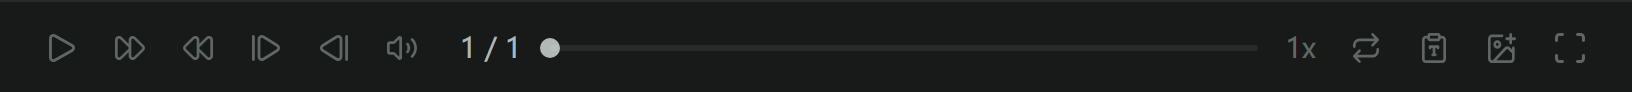
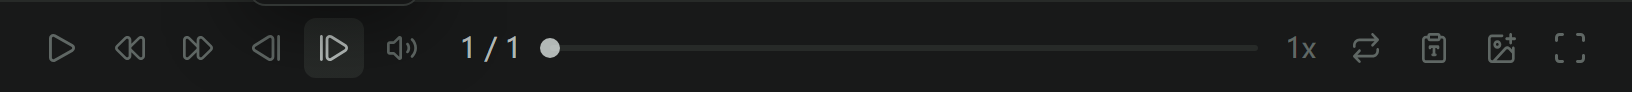
阶段五 5.1 复核三轮：视频快进快退/上下帧朝向修正 + tip tag 化 + 播放条图标 hover 提亮 + 帧条两端换 nav-history 面包屑同款

Changed region(s): [[0.0625, 0.3696, 0.2188, 0.6739], [0.1562, 0.0435, 0.25, 0.0652]]

diff --git a/src/components/PlayBarVideo.vue b/src/components/PlayBarVideo.vue
@@ -1,7 +1,8 @@
 <script setup lang="ts">
 // 视频播放条（5.2）：样式 = 13_播放条稿（2026-08-20 用户定，与搜索栏同位同尺寸）——46 高 /
 // padding 8 16 / C3 / border-top 暗-悬停 / 直角通栏；左组 = 播放/快退/快进/上帧/下帧/音量（稿全量件）。
-// 播放/暂停、快退/快进（∓5 秒）、上/下一帧（step-frame 图标左右翻转，步进即暂停，快捷键 , . 的实体入口）、
+// 播放/暂停、快退/快进（∓5 秒；seek 原样 ◀◀ = 快退、flip-h = 快进——2026-08-20 修：翻转归属原写反）、
+// 上/下一帧（step-frame-vertical 原样 ◀| = 上一帧、flip-h |▶ = 下一帧；步进即暂停，快捷键 , . 的实体入口）、
 // 音量（VolumeControl）、当前帧/总帧数（TimeDisplayControl：5.3 帧化，查看方式"时间显示 = 帧数"且
 // fps 可用，回退 当前时间/总时长；悬停出帧数/时间码就地切换弹窗，2026-07-28 用户定）、
 // 进度条（3px 轨道 暗-悬停 + 品牌紫填充 + 10px 常态色拖钮，13 稿口径）、
@@ -76,11 +77,12 @@ function stepFrame(delta: number): void {
         :disabled="media.transcodingSlow"
         @click="media.togglePlay()"
       />
-      <IconButton class="flip-h" name="seek" title="快退 5 秒" :disabled="media.transcodingSlow" @click="media.seekBy(-5)" />
-      <IconButton name="seek" title="快进 5 秒" :disabled="media.transcodingSlow" @click="media.seekBy(5)" />
-      <!-- 上下帧（逐帧步进即暂停；step-frame-vertical 图标左右翻转使用，快捷键 , . 的实体入口） -->
-      <IconButton class="flip-h" name="step-frame-vertical" title="上一帧（,）" :disabled="media.transcodingSlow" @click="stepFrame(-1)" />
-      <IconButton name="step-frame-vertical" title="下一帧（.）" :disabled="media.transcodingSlow" @click="stepFrame(1)" />
+      <IconButton name="seek" title="快退 5 秒" :disabled="media.transcodingSlow" @click="media.seekBy(-5)" />
+      <IconButton class="flip-h" name="seek" title="快进 5 秒" :disabled="media.transcodingSlow" @click="media.seekBy(5)" />
+      <!-- 上下帧（逐帧步进即暂停；step-frame-vertical 原样 ◀| = 上一帧、flip-h |▶ = 下一帧；
+           快捷键 , . 的实体入口，tip tag 化同"新增"口径） -->
+      <IconButton name="step-frame-vertical" :title="{ text: '上一帧', keys: ',' }" :disabled="media.transcodingSlow" @click="stepFrame(-1)" />
+      <IconButton class="flip-h" name="step-frame-vertical" :title="{ text: '下一帧', keys: '.' }" :disabled="media.transcodingSlow" @click="stepFrame(1)" />
       <VolumeControl />
     </div>
     <TimeDisplayControl :text="posText" />
@@ -136,6 +138,10 @@ function stepFrame(delta: number): void {
 /* 播放条图标 = 标签档（13 稿 Vector 文字/标签） */
 .play-bar :deep(.icon-btn) {
   color: var(--text-label);
+}
+/* hover 提亮到常态（2026-08-20 用户定）；激活（品牌紫）/ 禁用态不提亮 */
+.play-bar :deep(.icon-btn:hover:not(.active):not(:disabled)) {
+  color: var(--text-normal);
 }
 .play-bar :deep(.icon-btn.active) {
   color: var(--brand-1);

diff --git a/src/components/PreviewFrameStrip.vue b/src/components/PreviewFrameStrip.vue
@@ -40,7 +40,7 @@ watch(
 
 <template>
   <div v-if="show" class="frame-strip">
-    <IconButton name="chevron-small" title="上一帧" class="rot-l" :disabled="preview.frame <= 0" @click="preview.stepFrame(-1)" />
+    <IconButton name="nav-history" title="上一帧" :disabled="preview.frame <= 0" @click="preview.stepFrame(-1)" />
     <div ref="listRef" class="frames">
       <!-- 动图分支（帧索引驱动） -->
       <template v-if="preview.kind === 'anim'">
@@ -71,9 +71,9 @@ watch(
       </button>
     </div>
     <IconButton
-      name="chevron-small"
+      name="nav-history"
       title="下一帧"
-      class="rot-r"
+      class="rot-180"
       :disabled="preview.frame >= count - 1"
       @click="preview.stepFrame(1)"
     />
@@ -92,18 +92,18 @@ watch(
   background: var(--c3);
   border-top: 1px solid var(--line-hover);
 }
-/* chevron-small 源图形朝上（BlockManageRow 实机核对口径）：上一帧 = 逆时针 90°（朝左），
-   下一帧 = 顺时针 90°（朝右）。2026-08-20 修：旧注释误记"原图标朝下"（1.1 换血前朝向），
-   ±90° 写反致两端按钮方向互逆——与 PreviewTitleBar 返回钮同根因 */
-.rot-l :deep(svg) {
-  transform: rotate(-90deg);
-}
-.rot-r :deep(svg) {
-  transform: rotate(90deg);
+/* 上/下帧 = nav-history 与面包屑后退/前进同款（2026-08-20 用户定，弃用 chevron-small 旋转箭头）：
+   上一帧不旋转（朝左），下一帧 rotate(180°) 朝右 */
+.rot-180 :deep(svg) {
+  transform: rotate(180deg);
 }
 /* 播放条系图标 = 标签档（13 稿 Vector 文字/标签，与播放条统一） */
 .frame-strip :deep(.icon-btn) {
   color: var(--text-label);
+}
+/* hover 提亮到常态（同播放条口径）；禁用态不提亮 */
+.frame-strip :deep(.icon-btn:hover:not(:disabled)) {
+  color: var(--text-normal);
 }
 .frames {
   display: flex;

diff --git a/src/components/PlayBarFrames.vue b/src/components/PlayBarFrames.vue
@@ -118,6 +118,10 @@ function onSeekUp(e: PointerEvent): void {
 .play-bar :deep(.icon-btn) {
   color: var(--text-label);
 }
+/* hover 提亮到常态（2026-08-20 用户定）；激活（品牌紫）/ 禁用态不提亮 */
+.play-bar :deep(.icon-btn:hover:not(.active):not(:disabled)) {
+  color: var(--text-normal);
+}
 /* 激活态优先于标签档（笔记开着 = 品牌紫） */
 .play-bar :deep(.icon-btn.active) {
   color: var(--brand-1);

diff --git a/src/components/PlayBarAudio.vue b/src/components/PlayBarAudio.vue
@@ -114,6 +114,10 @@ function onSeekUp(e: PointerEvent): void {
 .play-bar :deep(.icon-btn) {
   color: var(--text-label);
 }
+/* hover 提亮到常态（2026-08-20 用户定）；激活（品牌紫）/ 禁用态不提亮 */
+.play-bar :deep(.icon-btn:hover:not(.active):not(:disabled)) {
+  color: var(--text-normal);
+}
 .play-bar :deep(.icon-btn.active) {
   color: var(--brand-1);
 }

diff --git a/tools/cdp-playbar-probe.py b/tools/cdp-playbar-probe.py
@@ -130,9 +130,19 @@ STRIP_STYLE_JS = """(() => {
     borderRadius: cs.borderRadius, borderTopWidth: cs.borderTopWidth, boxShadow: cs.boxShadow,
     background: cs.backgroundColor, padding: cs.padding,
     btnTransforms: btns, btnCount: btns.length,
+    btnDs: [...strip.querySelectorAll('.icon-btn svg path')].map((p) => p.getAttribute('d')?.slice(0, 20) ?? null),
     frameRadius: (() => { const f = strip.querySelector('.frame'); return f ? getComputedStyle(f).borderRadius : null; })(),
   };
 })()"""
+
+# 视频左组按钮朝向断言（2026-08-20 修：seek 原样 ◀◀ = 快退 / flip-h = 快进；step-frame-vertical
+# 原样 ◀| = 上一帧 / flip-h = 下一帧）——读 svg computed transform 序列比对
+VIDEO_LEFT_JS = """(() => {
+  const group = document.querySelector('.preview-footer .play-bar .btn-group');
+  if (!group) return null;
+  return [...group.querySelectorAll('.icon-btn svg')].map((s) => getComputedStyle(s).transform);
+})()"""
+FLIP = "matrix(-1, 0, 0, 1, 0, 0)"  # scaleX(-1)
 
 C3_RGB = "rgb(24, 25, 25)"  # #181919
 LABEL_RGBA = "rgba(234, 255, 247, 0.341)"  # 文字/标签 0.3412（浏览器舍入）
@@ -253,9 +263,13 @@ async def main():
                     fails.append(f"[动图] 帧条边框/画框不符（top {strip['borderTopWidth']} / shadow {strip['boxShadow']}）")
                 if strip["padding"] != "8px 16px":
                     fails.append(f"[动图] 帧条内边距 {strip['padding']}（期望 8px 16px）")
+                # 两端按钮 = nav-history 面包屑同款：上一帧不旋转（朝左）/ 下一帧 rotate(180°)
+                ds = strip.get("btnDs") or []
+                if not all(d and d.startswith("M11.6251 2.5") for d in ds):
+                    fails.append(f"[动图] 帧条两端图标 ≠ nav-history（{ds}）")
                 rots = [rot_deg(t) for t in strip["btnTransforms"]]
-                if len(rots) != 2 or rots[0] != -90 or rots[1] != 90:
-                    fails.append(f"[动图] 帧条两端按钮方向错（{rots}，期望 [-90, 90] 即 ← →）")
+                if len(rots) != 2 or rots[0] is not None or rots[1] != 180:
+                    fails.append(f"[动图] 帧条两端按钮方向错（{rots}，期望 [不旋转, 180] 即 ‹ ›）")
             # 帧数文本色 = 常态档
             ft = await ev("(() => { const t = document.querySelector('.play-bar .frame-text'); return t ? getComputedStyle(t).color : null; })()")
             print("[动图] 帧数文本色:", ft)
@@ -271,6 +285,27 @@ async def main():
             print("[视频] 左组按钮数:", left_n)
             if left_n != 6:
                 fails.append(f"[视频] 左组 {left_n} 件（期望 6：播放/快退/快进/上帧/下帧/音量）")
+            # 左组朝向序列：播放 none / 快退 none（◀◀）/ 快进 flip / 上帧 none（◀|）/ 下帧 flip / 音量 none
+            transforms = await ev(VIDEO_LEFT_JS)
+            print("[视频] 左组 transform:", transforms)
+            if transforms:
+                expect = ["none", "none", FLIP, "none", FLIP, "none"]
+                if transforms != expect:
+                    fails.append(f"[视频] 左组朝向序列不符（{transforms}，期望 {expect}）")
+            # hover 提亮 + tip tag 化（下一帧钮：非禁用）：真鼠标悬停 → 图标色提亮常态 + 400ms 出 tag 化 tip
+            btn_rect = await ev("(() => { const b = document.querySelectorAll('.preview-footer .play-bar .btn-group .icon-btn')[4]; const r = b.getBoundingClientRect(); return { x: r.left + r.width / 2, y: r.top + r.height / 2 }; })()")
+            color0 = await ev("getComputedStyle(document.querySelectorAll('.preview-footer .play-bar .btn-group .icon-btn')[4]).color")
+            await send(ws, "Input.dispatchMouseEvent", {"type": "mouseMoved", "x": btn_rect["x"], "y": btn_rect["y"]}, session=sess)
+            await asyncio.sleep(0.2)
+            color1 = await ev("getComputedStyle(document.querySelectorAll('.preview-footer .play-bar .btn-group .icon-btn')[4]).color")
+            print("[视频] 下一帧 hover 色:", color0, "→", color1)
+            if color1 == color0 or not (color1 or "").startswith("rgba(247, 255, 252, 0.694"):
+                fails.append(f"[视频] hover 未提亮到常态（{color0} → {color1}）")
+            await asyncio.sleep(0.6)  # v-tip 400ms 延迟
+            tip = await ev("(() => { const t = document.querySelector('.app-tip.show'); return t ? { text: t.textContent, kbd: [...t.querySelectorAll('kbd')].map((k) => k.textContent) } : null; })()")
+            print("[视频] 下一帧 tip:", json.dumps(tip, ensure_ascii=False))
+            if not tip or "下一帧" not in tip["text"] or tip["kbd"] != ["."]:
+                fails.append(f"[视频] 下一帧 tip 未 tag 化（{tip}，期望 文本「下一帧」+ kbd [.]）")
             await shot_footer("playbar-video")
             await close_preview()
 

diff --git a/docs/04_开发日志/2026-08-20.md b/docs/04_开发日志/2026-08-20.md
@@ -142,3 +142,15 @@ spike 验证通过后当日起量，动图卡播放源整体切换：`<img>` 播
 - **顺手修既有 BUG**：PlayBarVideo 上/下帧按钮引用 `step-frame`——**该图标文件从未入库**（命名对照 177 行登记缺失），视频预览一点开播放条即 getIcon 抛错、Vue 渲染连锁崩（探针实锤 EXCEPTION）；改 `step-frame-vertical`（三角+竖杆，语义即"上下帧"），命名对照 177 行更正。
 - **验证**：typecheck / build 全绿；新探针 `tools/cdp-playbar-probe.py` 全项 PASS（三变体覆盖：动图假 WS 帧流撑帧条 / 视频左组 6 件 / 音频波形；computed style 断言 46 高 / 直角 / border-top / C3 / padding / 图标标签档 / 帧数常态档 / 帧条两端 [-90°, +90°]）+ 三截图留档（playbar-frames / video / audio.png）。坑：浏览器 computed alpha 舍入 2 位（0.3412 → 0.34），断言前缀勿卡死。
 - **文档**：PRD 04 播放条布局条文改写 / 速查表新增 §11 预览播放条·帧条 / 命名对照更正。
+
+---
+
+## 阶段五 5.1 复核三轮：播放条细节四项（用户实机报）
+
+1. **快进/快退朝向反了**：`seek` 源图形 = ◀◀ 快退（双三角朝左）——原实现把 flip-h 挂在快退上（快退变 ▶▶、快进变 ◀◀）。对调：快退原样、快进 flip-h。
+2. **上/下帧朝向反了**：`step-frame-vertical` 原样 = ◀|（三角朝左）即上一帧——上轮 flip-h 挂错位置。对调：上一帧原样、下一帧 flip-h。
+3. **上/下帧快捷键 tip tag 化**：`"上一帧（,）"` 纯文本 → TipValue 对象 `{ text: '上一帧', keys: ',' }`（与"新增"Ctrl+N 同款 kbd 徽章；单字符键 kbd 原样）。
+4. **播放条图标 hover 提亮**：标签档常态 → hover 常态色提亮（`:hover:not(.active):not(:disabled)`；激活品牌紫 / 禁用不提亮），三变体 + 帧条两端统一。
+5. **帧条两端按钮换 nav-history**（用户定：用面包屑返回样式，不用箭头）——上一帧不旋转、下一帧 rotate(180°)，与预览标题栏上/下一个、面包屑后退/前进全库同图标。
+
+**验证**：typecheck / build 全绿；`cdp-playbar-probe.py` 复跑全项 PASS（新增断言：视频左组 transform 序列 [none, none, flip, none, flip, none] / 帧条两端 nav-history d 前缀 + [不旋转, 180°] / 真鼠标 hover 提亮 0.34→0.694 / tip tag 化 kbd ["."]）+ 截图留档。速查表 §11 回补（朝向归属 / hover 提亮 / tip tag 化 / 帧条 nav-history）。

diff --git a/docs/05_项目进度/00_当前状态.md b/docs/05_项目进度/00_当前状态.md
@@ -1,6 +1,6 @@
 > 任务完成即更新本文件。开发中发现的遗漏细节记入 [[09_待办细节清单]]，按迭代消化，不在代码里就地糊（见 01_开发规范 第 4 条）。
 
-# 当前状态
+- **阶段五 5.1 复核三轮 · 播放条细节四项已落地（2026-08-20，feat/new-ui，用户实机报）**：① 快进/快退朝向对调（seek 原样 ◀◀ = 快退，原实现 flip-h 挂反）；② 上/下帧朝向对调（step-frame-vertical 原样 ◀| = 上一帧、flip-h = 下一帧，上轮挂反）；③ 上下帧 tip tag 化（TipValue keys，与"新增"kbd 徽章同款，废"上一帧（,）"纯文本）；④ 播放条系图标 hover 提亮常态色（标签档常态，active 品牌紫/禁用豁免；三变体 + 帧条两端统一）；⑤ 帧条两端换 `nav-history` 面包屑同款（用户定，弃用 chevron-small 旋转箭头）——至此导航向图标全库统一 nav-history（面包屑 / 预览标题栏上·下一个 / 帧条）。typecheck / build 绿；cdp-playbar-probe 复跑全项 PASS（新增朝向序列 / hover 提亮 / tip kbd 断言）+ 截图。速查表 §11 回补。**下一步：5.1 复核继续（按用户实机走查）/ 5.2 / 视频卡帧流（用户已排入 5.2）**。
 
 - **阶段五 5.1 复核二轮 · 播放条/帧条贴 13_播放条稿已落地（2026-08-20，feat/new-ui，用户两问定案）**：播放条 = 搜索栏同位同尺寸（46 高 / padding 8 16 / C3 / border-top 暗-悬停 / 直角通栏，旧圆角浮条口径作废）；顺序 = 播放条在上、常驻帧条贴底；图标全量稿按实际删减（动图无音量·快进快退，上·下帧不补——帧条两端已有）。三变体 + 帧条容器全改贴稿（图标标签档 / 时间码常态 min-72 / 进度条轨道暗-悬停 + 拖钮常态 / RateControl·TimeDisplayControl 30 高）；footer 通栏贴底（主窗口 padding 归零 / 预览窗口负 margin 拉通，全屏态归零防溢出）。**顺手修两既有 BUG**：帧条两端按钮方向互逆（chevron-small 源图形朝上，旧注释误记朝下，rot ±90° 写反）；PlayBarVideo 引用 `step-frame` 图标**从未入库**（视频预览播放条渲染即崩）→ 改 `step-frame-vertical`，命名对照 177 行更正。typecheck / build 全绿；新探针 `tools/cdp-playbar-probe.py` 三变体全项 PASS + 三截图。PRD 04 条文改写 / 速查表新增 §11。**下一步：5.1 复核继续（按用户实机走查）/ 5.2 / 视频卡帧流（用户已排入 5.2）**。
 

diff --git a/docs/02_样式与布局/03_新面板口径速查.md b/docs/02_样式与布局/03_新面板口径速查.md
@@ -91,5 +91,7 @@
 - **图标 = 标签档色**（13 稿 Vector 文字/标签），激活态（笔记/循环开着）品牌紫；**时间码位 = 常态色 min-width 72**（帧数/时长文本、TimeDisplayControl）；**速率钮 30 高 padding 0 6 标签档**。
 - **进度条**：3px 轨道 **暗-悬停**（非 border-1）+ 品牌紫填充（已播放表达，稿未画但保留）+ 10px **常态色**拖钮；音频为波形进度条（两层 mask + 播放头竖线），容器口径不变。
 - **图标删减口径**：13 稿是全量稿，按格式删减——动图/序列帧无音量/快进快退（无音轨、PRD 无此项），上·下帧按钮**不补**（帧条两端已有，2026-08-20 用户定）；音频无笔记/设封面/全屏。
-- **常驻帧条同款容器样式**（直角 / C3 / border-top 暗-悬停 / padding 8 16），顺序 = 播放条在上、帧条贴底；帧块内容物保持圆角 8 + 当前帧 1.5px 品牌色 ::after。
-- **上下帧图标 = `step-frame-vertical`**（三角+竖杆，上一帧 flip-h 翻转）；`chevron-small` 源图形**朝上**——帧条两端：上一帧 rotate(-90°) 朝左、下一帧 rotate(90°) 朝右（勿与 chevron-large 朝右混用）。
+- **常驻帧条同款容器样式**（直角 / C3 / border-top 暗-悬停 / padding 8 16），顺序 = 播放条在上、帧条贴底；帧块内容物保持圆角 8 + 当前帧 1.5px 品牌色 ::after。**帧条两端上/下帧 = `nav-history` 面包屑同款**（上一帧不旋转、下一帧 rotate(180°)，2026-08-20 用户定：弃用 chevron-small 旋转箭头）。
+- **播放条系图标交互（2026-08-20 用户定）**：常态 = 标签档色，**hover 提亮到常态色**（`:hover:not(.active):not(:disabled)`；激活品牌紫 / 禁用不提亮），帧条两端同。
+- **视频上/下帧图标 = `step-frame-vertical`**（三角+竖杆：**原样 ◀| = 上一帧、flip-h |▶ = 下一帧**——翻转归属勿写反，2026-08-20 实机修）；快退/快进 = `seek`（**原样 ◀◀ = 快退**、flip-h ▶▶ = 快进）。
+- **播放条快捷键 tip 一律 tag 化**：IconButton title 传 TipValue 对象（`{ text: '上一帧', keys: ',' }`——单字符键 kbd 原样），勿写"上一帧（,）"纯文本。
